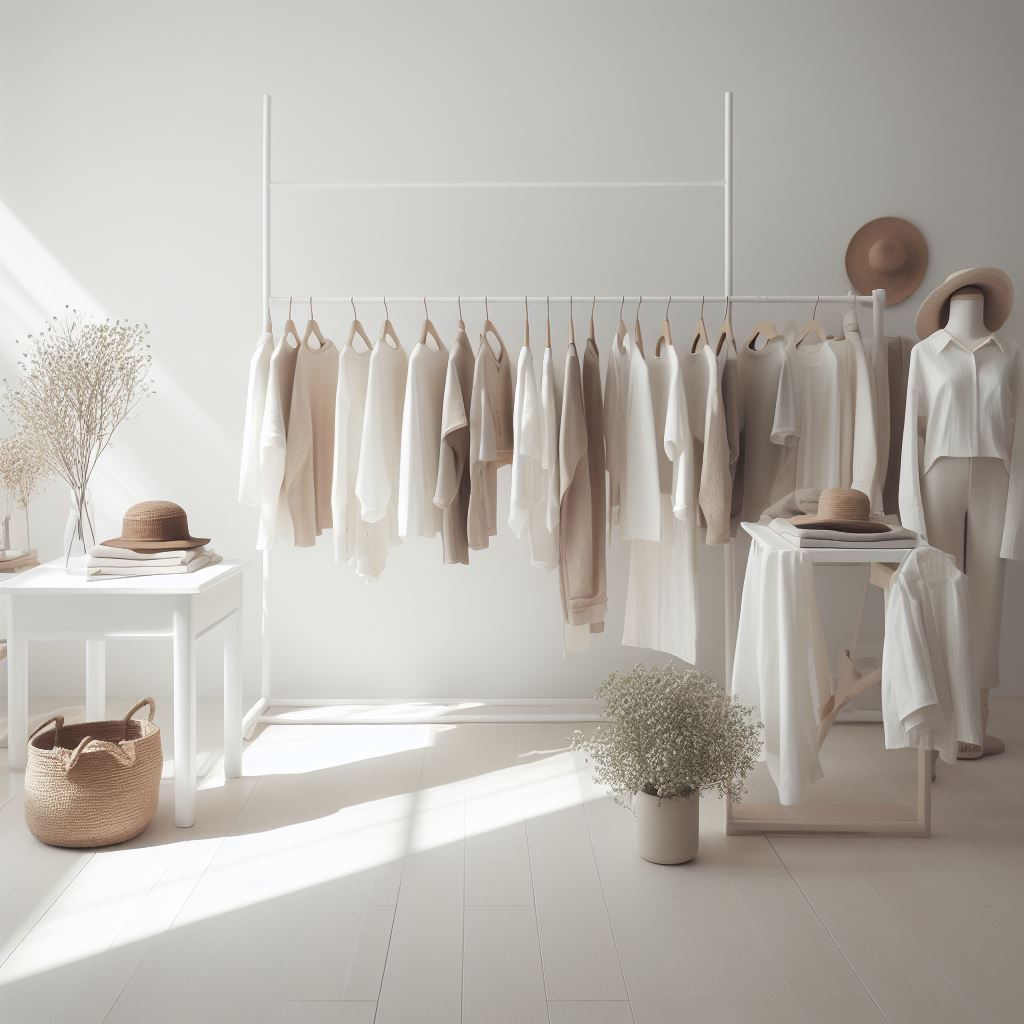
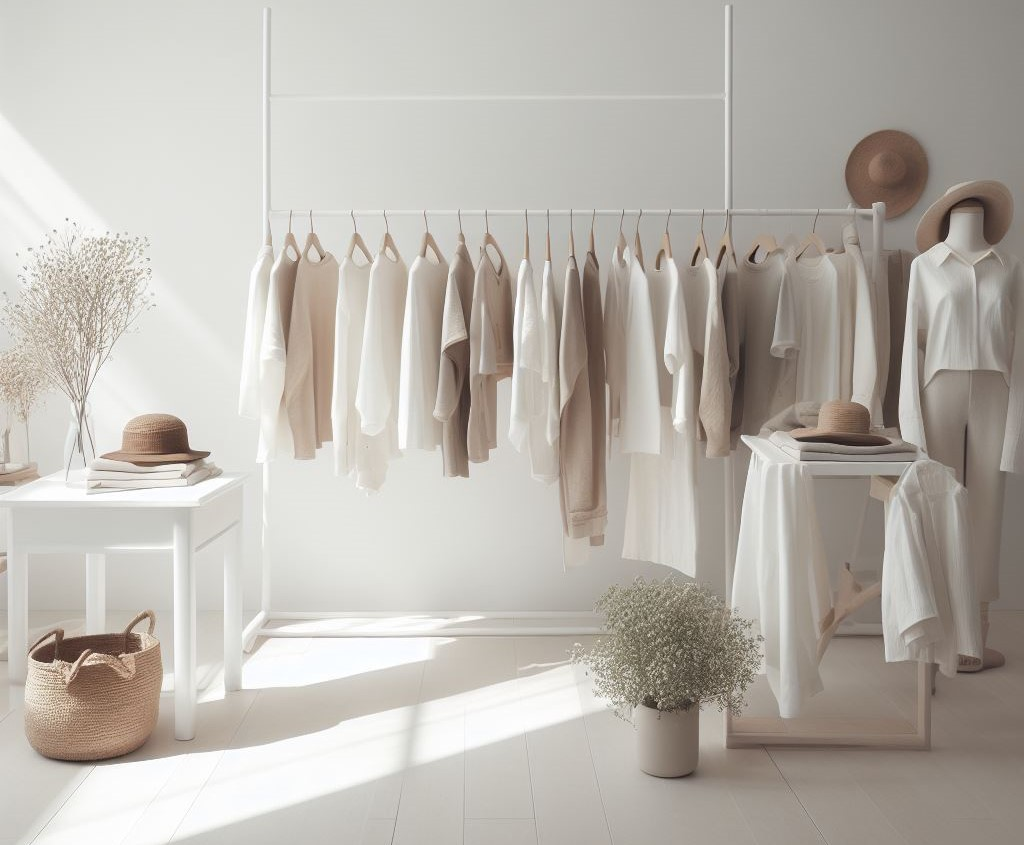
Actualizando pagina de inicio, agregando imagen, al igual que agregando imagen a la carpeta assets

diff --git a/inicio.html b/inicio.html
@@ -17,24 +17,30 @@
             </ul>
         </div>
     </header>
-    <div class="FirstContainer">
-    <img src="./assets/images/str.jpg">
-    <p>Bienvenido a el lugar, donde la moda y la belleza se juntan, para generar un estilo simple pero bastante unico e inigualable solamente en SH.</p>
+    <div class="ContainerImages">
     </div>
+
     <div class="TitleFirst">
-        <h1><img src="./icons/snow-outline.svg">Prendas Especiales<img src="./icons/snow-outline.svg"></h1>
+        <h1><img src="./icons/snow-outline.svg"><img src="./icons/snow-outline.svg"><img src="./icons/snow-outline.svg"><img src="./icons/snow-outline.svg">Prendas Especiales<img src="./icons/snow-outline.svg"><img src="./icons/snow-outline.svg"><img src="./icons/snow-outline.svg"><img src="./icons/snow-outline.svg"></h1>
     </div>
+
+    <div class="ContainerMain">
     <div class="SecondContainer">
         <p>En estas navidades, sumérgete en el encanto de nuestra exclusiva tienda de moda, donde cada prenda cuenta una historia de elegancia y estilo. Celebra la temporada con regalos que van más allá de lo material, capturando la esencia misma de la moda y el espíritu festivo. Descubre la magia de estas fiestas en cada detalle de nuestra colección, donde la moda se convierte en una expresión única de amor y buen gusto.</p>
-                <img src="./assets/images/qw.png">
-                <img src="./assets/images/vs.png">
+        <br>
+        <div class="SecondImage">
+        <img src="./assets/images/ttt.jpg">
+        </div>
+        <br>
         <p>Te invitamos a reflexionar sobre nuestra exclusiva tienda de moda, donde la belleza de dar se entrelaza con la elegancia de nuestras prendas. Descubre cómo cada regalo que eliges es más que una compra, es una expresión de estilo y generosidad en nuestra colección única.</p>
     </div>
+
     <div class="ThirdContainer">
-        <h1><img src="./icons/snow-outline.svg">Nuevo año y momentos memorables<img src="./icons/snow-outline.svg"></h1>
+        <h1><img src="./icons/snow-outline.svg"><img src="./icons/snow-outline.svg"><img src="./icons/snow-outline.svg">Nuevo año y momentos memorables<img src="./icons/snow-outline.svg"><img src="./icons/snow-outline.svg"><img src="./icons/snow-outline.svg"></h1>
                 <img src="./assets/images/bu.jpg">
                 <img src="./assets/images/ññ.jpg">
         <p>¡Deseándote un año lleno de alegría y risas! Da la bienvenida al nuevo año vistiendo a tus pequeños con la más linda ropa. Que cada día esté tejido con amor y aventuras para tus hijos. ¡Que el 2023 sea un año lleno de momentos memorables y estilizados con ternura para toda la familia!</p>
     </div>
+</div>
 </body>
 </html>

diff --git a/inicio.css b/inicio.css
@@ -34,68 +34,69 @@ body {
 #Homepage a:hover{
     color: #46433e;
 }
-.TitleFirst{
-    color: rgba(164, 18, 18, 0.525);
-}
-.TitleFirst img{
-    width: 25px;
-    margin: 10px;
-}
-.FirstContainer{
-    background-color: #eeeff1;
-    width: 80%;
-    justify-content: center;
-    margin: 10px 150px;
-    padding: 20px;
-}
-.FirstContainer img{
-    width: 100%;
-}
-.FirstContainer p{
-    margin: 10px 0;
-    font-size: 15px;
-    color: #242321;
-    font-family: 'Playfair Display', serif;
-}
-.SecondContainer {
-    background-color: #f1efee;
-    width: 85%;
-    justify-content: center;
-    margin: 10px 100px;
-    padding: 20px;
+.ContainerImages {
+    width: 160vh; 
+    height: 500px;
+    background-repeat: no-repeat;
+    background-image: url(./assets/images/str.jpg);
+    margin: 0 125px;
 }
 
-.SecondContainer img {
-    width: 25%;
+.TitleFirst{
+    color: rgba(164, 18, 18, 0.525);
+    width: 100%;
+}
+.TitleFirst img{
+    color: rgba(164, 18, 18, 0.525);
+    width: 20px;
+    margin: 0 10px;
+}
+
+.SecondContainer {
+    background-color: #f1efee;
+    width: 100%;
+    justify-content: center;
+    margin: 0;
+    padding: 20px 0;
+}
+
+.SecondImage img {
+    width: 30%;
 }
 
 .SecondContainer p {
-    margin: 10px 0;
-    font-size: 15px;
-    color: #242321;
-    font-family: 'Playfair Display', serif;
-}
-.ThirdContainer {
-    background-color: #f1efee;
-    width: 85%;
+    margin: 0;
+    flex-direction: column;
+    width: 90%;
     justify-content: center;
-    margin: 10px 100px;
-    padding: 20px;
+    align-items: center;
+    margin: 20px 40px;
+}
+
+.ThirdContainer {
+   background-color: rgba(255, 230, 217, 0.429);
+    width: 100%;
+    justify-content: center;
+    margin: 0;
+    padding: 20px 0;
 }
 .ThirdContainer h1{
     color: rgba(164, 18, 18, 0.525);
 }
 .ThirdContainer h1 img{
-    width: 25px;
+    width: 20px;
     margin: 10px;
 }
 .ThirdContainer img {
-    width: 25%;
+    width: 30%;
+    margin: 10px;
 }
 
 .ThirdContainer p {
-    margin: 10px 0;
-    font-size: 15px;
-    color: #242321;
-    font-family: 'Playfair Display', serif;
+    margin: 0;
+    flex-direction: column;
+    width: 90%;
+    justify-content: center;
+    align-items: center;
+    margin: 20px 40px;
 }

diff --git a/moda.html b/moda.html
@@ -58,6 +58,7 @@
             <b>Aquí te ofrecemos unos ejemplos de que tipos de piel hay y los colores que le favorecen más.</b>
             <br>
             <br>
+            
     <div class="ThirdContainer">
         <div class="ThirdContainerImage">
         <img src="./assets/images/red.jpg">
